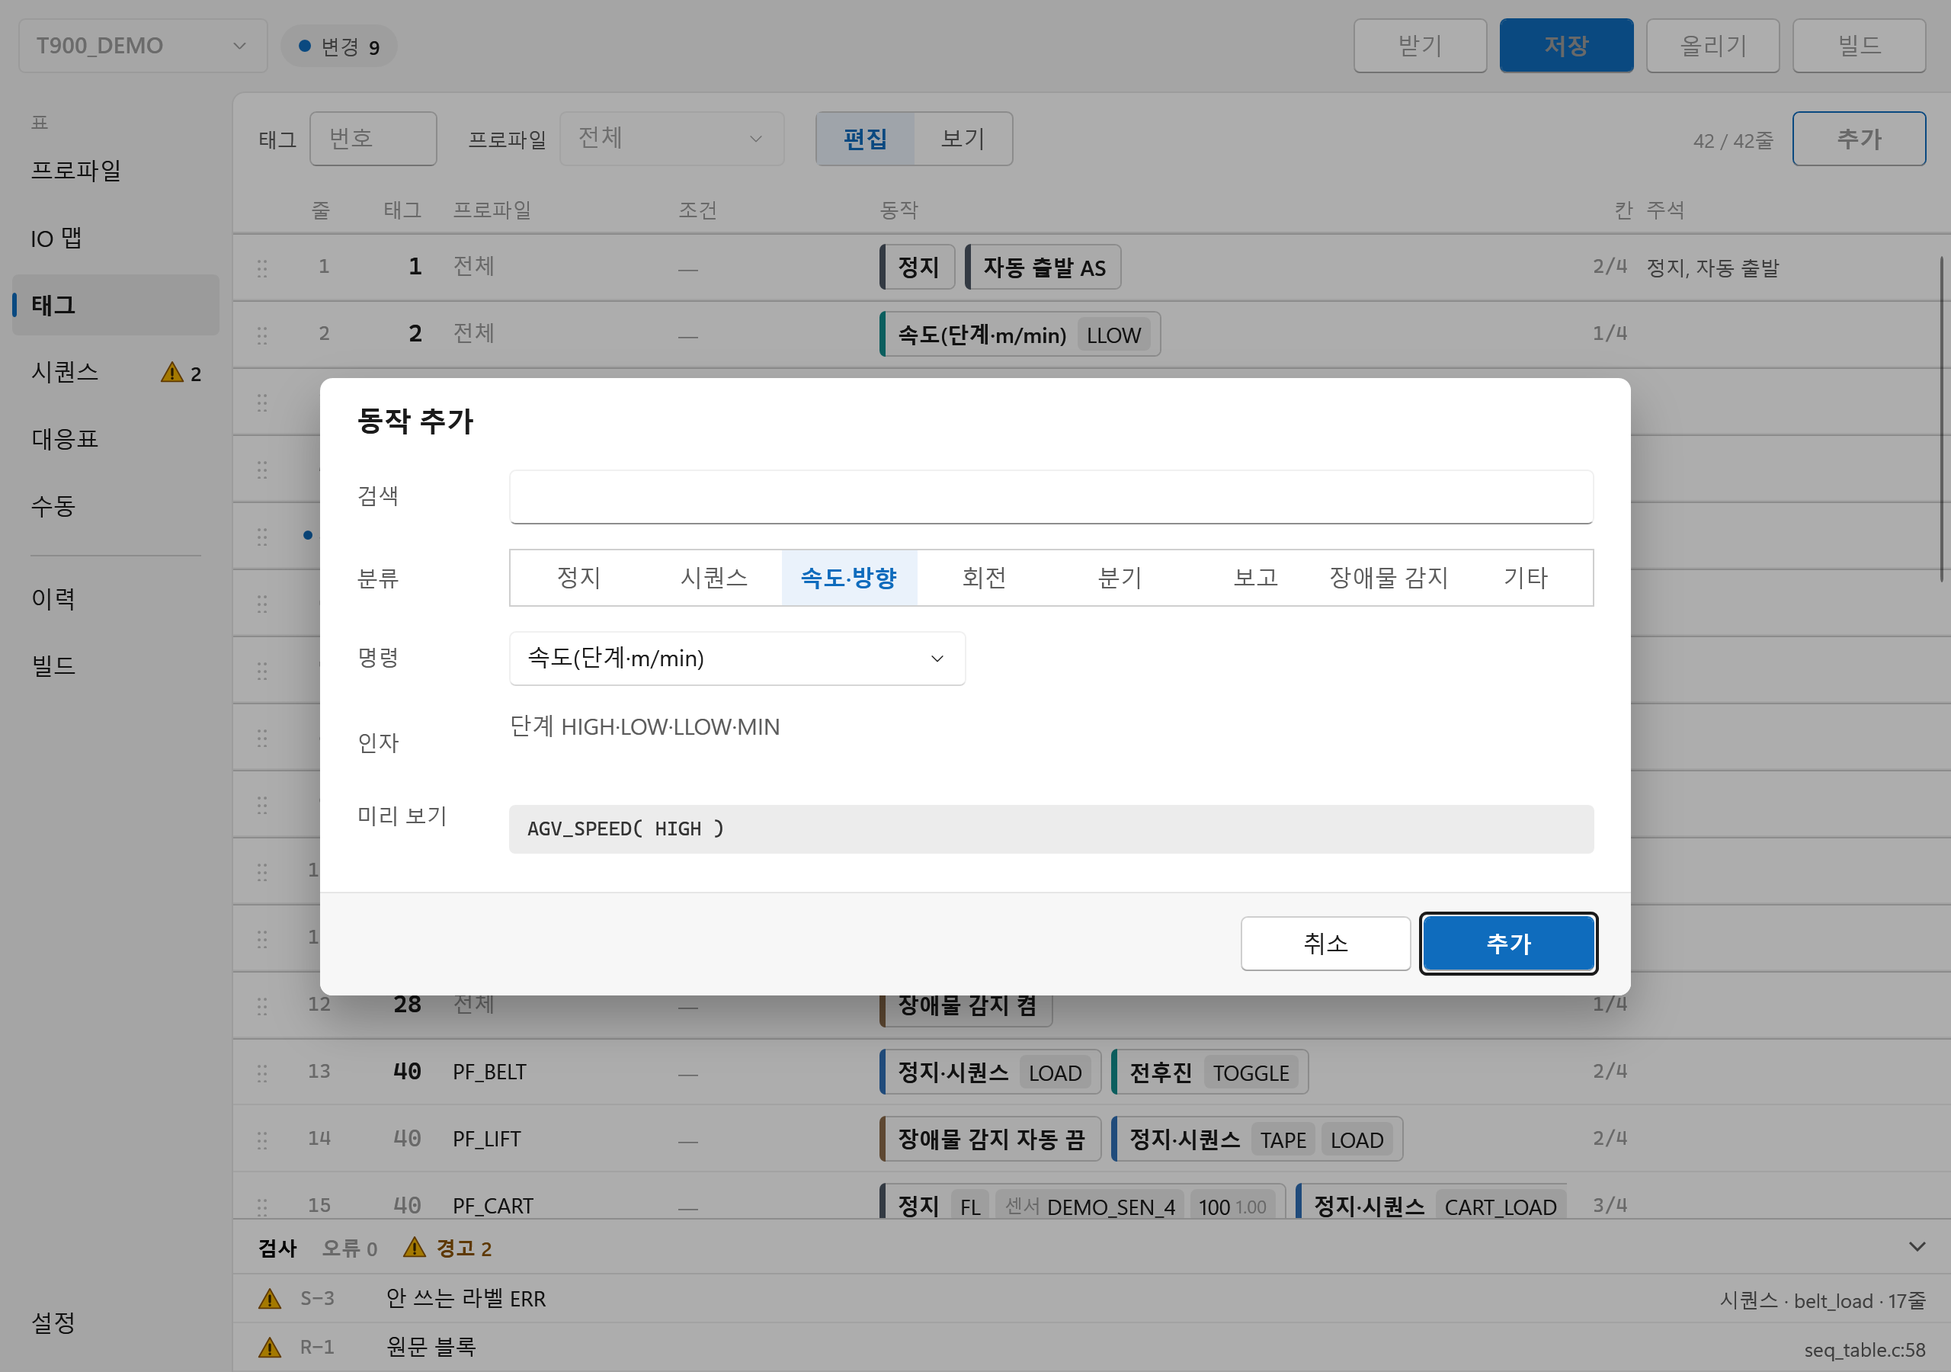
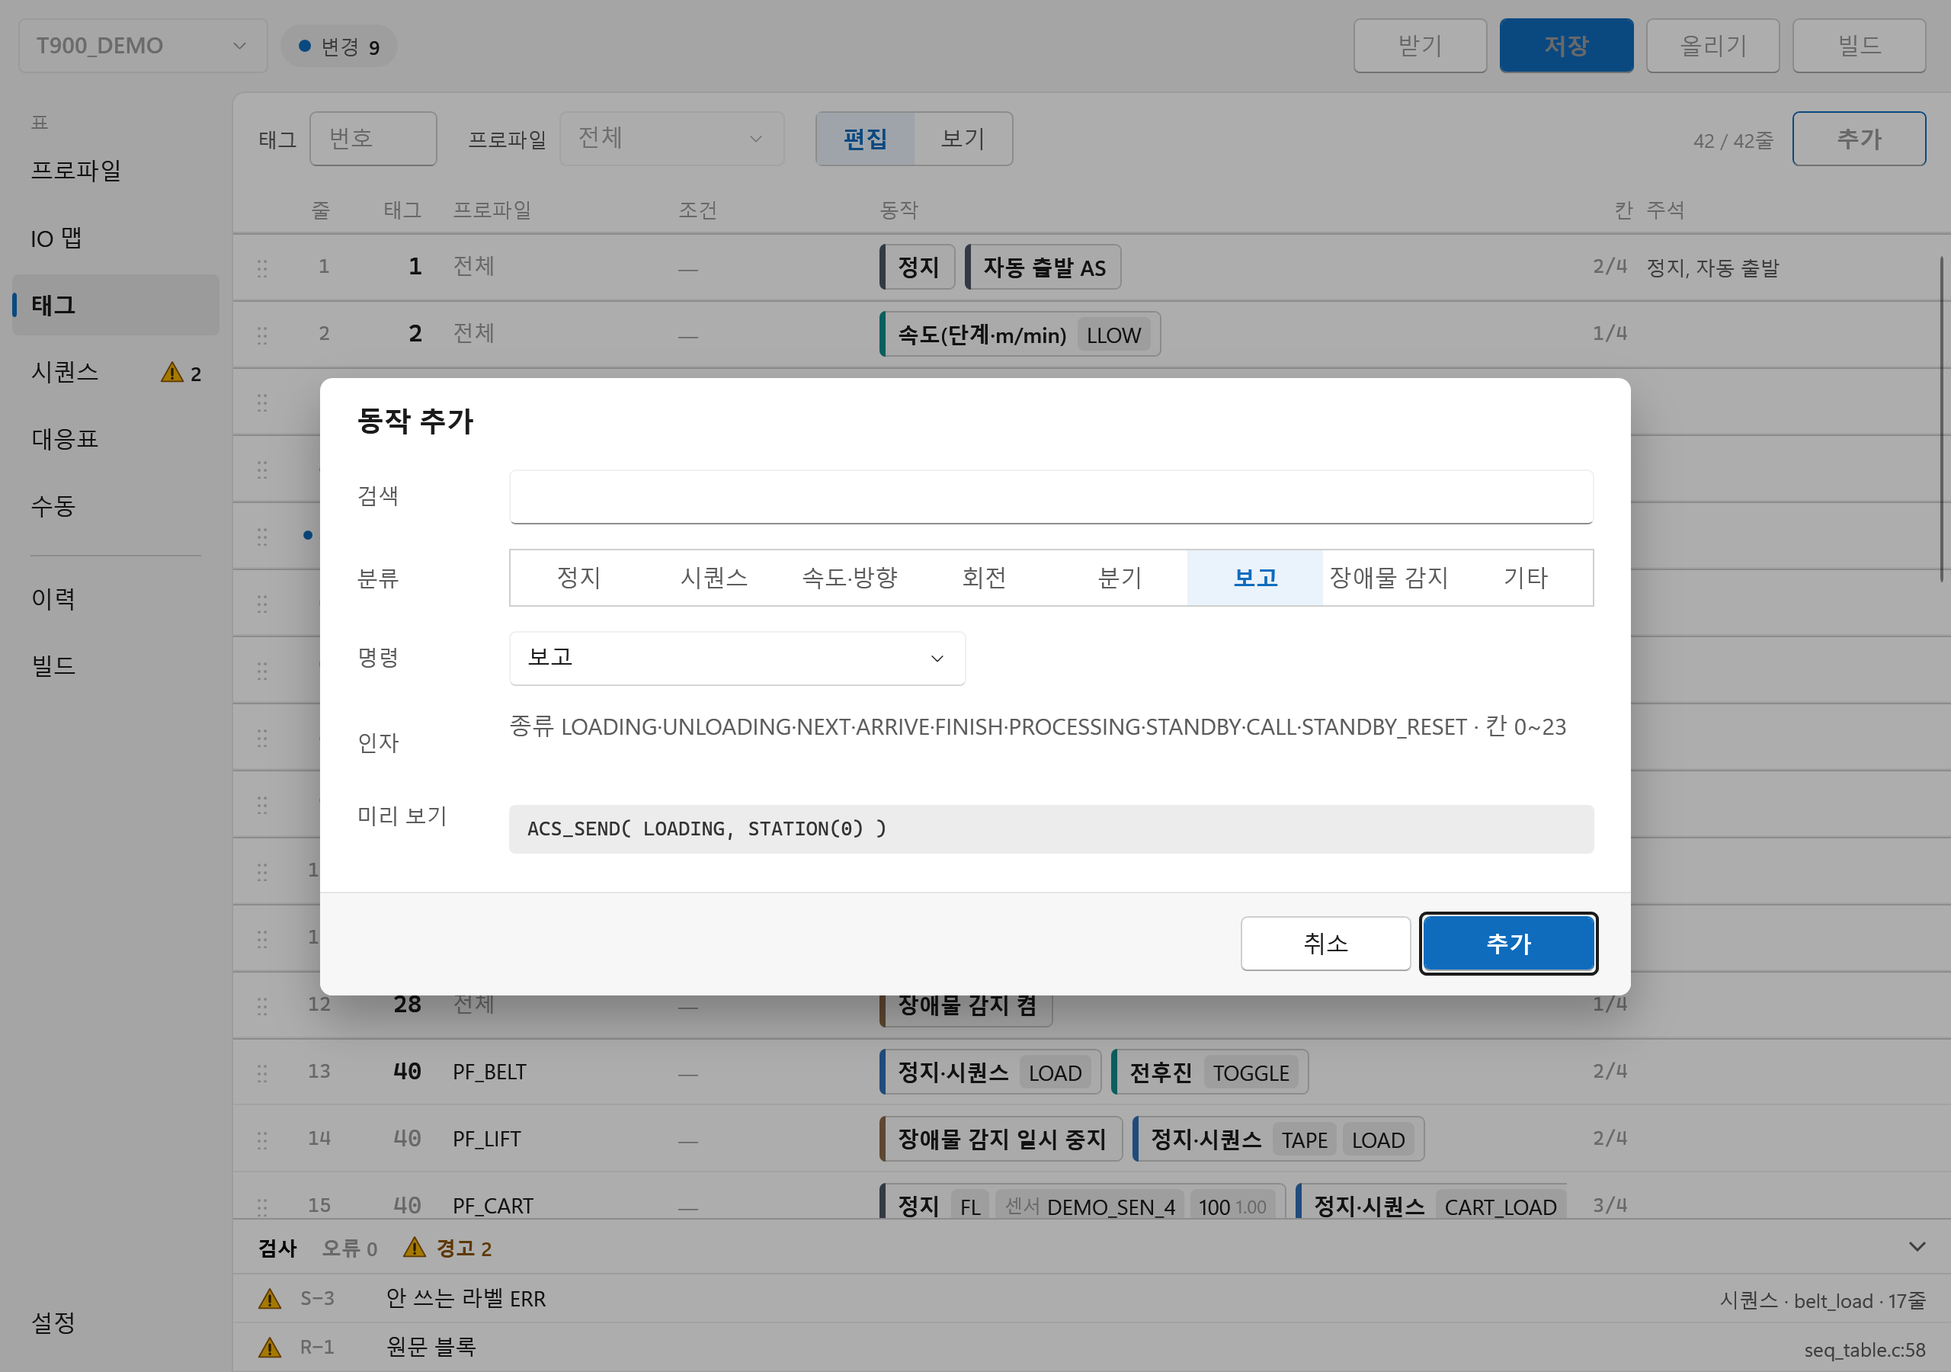
보고 칸: 스테이션·숫자 형식, 스테이션 칸 고르기
- 형식 낱말 출처·번호 → 스테이션·숫자
- 스테이션 형식에 칸(0~23) 드롭다운. STATION0 = 칸 0, STATION(k) = 칸 k.
  STATION0_PLUS1·STATION(0) + 1 같은 식은 그대로(칸 칸 없이 글 칸).
- 쓰기: 태그 칸 0 + 1칸 종류는 ACS( 종류, STATION0 )(1칸), 그 밖은 2칸 형식
  (새 코어 ACS( 종류, STATION(k) ), 옛 코어 ACS_SEND( 종류, STATION(k) ): 옛 태그 ACS 는 STATION(k) 를 못 받음).
  시퀀스는 두 코어 모두 ACS( 종류, STATION(k) ).
- selftest: 새·옛 코어 보고 칸 0 → 2 → 0 으로 되돌리면 원문 바이트 동일, 시퀀스 칸 읽기

diff --git a/src/TableEditor.Engine/Grammar/GrammarTable.cs b/src/TableEditor.Engine/Grammar/GrammarTable.cs
@@ -48,6 +48,7 @@ public enum ArgKind
     StationExpr,  // STATION(k) 식
     AcsSource,    // 시퀀스 ACS 번호 출처
     AcsNumber,    // ACS_SEND 번호
+    AcsStation,   // ACS_SEND·태그 ACS 의 STATION( 칸 )
     StopDist,     // FL 또는 cm
     FromSensor,   // FROM_SENSOR( … )
     AndCond,      // IN( … ), 묶음 하나, NO_IN, AND( … )(v0.58.0)
@@ -207,8 +208,8 @@ public static class GrammarTable
         "DELAY" => "틱",
         "AGV_SPEED" => "단계",
         "AGV_SPEED_MMIN" => "m/min",
-        "ACS" => "출처",
-        "ACS_SEND" => "번호",
+        "ACS" => "스테이션",
+        "ACS_SEND" => "숫자",
         "WAIT" or "WAIT_STABLE" or "OUT_FLICKER_UNTIL_IN" or "SELECT_END" => "없음",
         "WAIT_TO" or "WAIT_STABLE_TO" or "OUT_FLICKER_UNTIL_IN_TO" or "SELECT_END_TO" => "시간",
         _ => "",
@@ -221,7 +222,7 @@ public static class GrammarTable
         {
             _ when a.Switch => "ON·OFF",
             ArgKind.Word => string.Join("·", a.Words ?? []),
-            ArgKind.Number or ArgKind.Time or ArgKind.Timeout or ArgKind.StopDist or ArgKind.AcsNumber => string.Join(" ", new[] { a.Unit, range }.Where(s => s.Length > 0)),
+            ArgKind.Number or ArgKind.Time or ArgKind.Timeout or ArgKind.StopDist or ArgKind.AcsNumber or ArgKind.AcsStation => string.Join(" ", new[] { a.Unit, range }.Where(s => s.Length > 0)),
             ArgKind.Profile => "프로파일",
             ArgKind.Input or ArgKind.CoreInput or ArgKind.FromSensor => "입력",
             ArgKind.Signal => "신호",
@@ -389,7 +390,7 @@ public static class GrammarTable
         E("X_STATION_DIV", XC, Pt, "X_STATION_DIV( 칸, n, m )", "스테이션 몫", "차량 상태", Slot, N(1, 65535), U16),
         E("X_TAG_NUM", XC, Pt, "X_TAG_NUM( 식 )", "태그 번호 = 식", "차량 상태", A(ArgKind.StationExpr)),
         E("X_PARAM", XC, Pt, "X_PARAM( FND 이름, 값 )", "파라미터 =", "차량 상태", A(ArgKind.FndParam), N(-32768, 65535)),
-        E("X_NOT", XC, Pt, "X_NOT( 차량 상태 )", "NOT", "차량 상태", X),
+        E("X_NOT", XC, Pt, "X_NOT( 차량 상태 )", "반전", "차량 상태", X),
 
         // ---- v0.58.0 상태 낱말(AND 안, 옛 X_ 이름 대응. 헤더 dsl_and.h) ----
         E("ALWAYS", SC, Pt, "ALWAYS", "조건 없음", "차량 상태").Added(),
@@ -464,6 +465,7 @@ public static class GrammarTable
         E("STATION", S, Pt, "STATION( k )", "스테이션[k]", "보고", Slot),
         E("MOD", S, Pt, "MOD( STATION(k), m )", "나머지", "보고", A(ArgKind.StationExpr), N(1, 255)),
         E("ACS", S, St, "ACS( 종류, 번호 )", "보고", "보고", W(Reports), new ArgSpec(ArgKind.AcsSource, 0, 65535)).Word("STANDBY 정지 없음"),
+        E("ACS_SEND", S, St, "ACS_SEND( 종류, 칸 )", "보고", "보고", W(Reports), new ArgSpec(ArgKind.AcsStation, 0, 23)).Alias().Form("스테이션"),
         E("ACS_SEND", S, St, "ACS_SEND( 종류, 번호 )", "보고", "보고", W(Reports), new ArgSpec(ArgKind.AcsNumber, 0, 65535)).Alias(),
         E("ACS_WAIT_ACK", S, St, "ACS_WAIT_ACK( 제한, 라벨 )", "응답 대기", "보고", TO, Lb),
         E("ACS_STATION", S, St, "ACS_STATION( 칸, 값, 길이 )", "스테이션 넣기", "보고", Slot, U16, U16),
@@ -549,9 +551,11 @@ public static class GrammarTable
         E("AGV_FORBACK", TA, Pt, "AGV_FORBACK( 방향 )", "전후진", "동작", W(ForBack)).Cells(1),
         E("AGV_TURN", TA, Pt, "AGV_TURN( 방향, 각도, 회전 뒤, 자동 출발[, 속도[, 옵션[, 옵션]]] )", "회전", "동작",
             W(Rot), N(5, 315, "도"), N(0, 15), N(0, 15).Sw(), N(0, 31, "m/min").Opt(), W(TurnOptTag).Opt(), W(TurnOptTag).Opt()).Cells(2),
+        E("ACS_SEND", TA, Pt, "ACS_SEND( 종류, 칸 )", "보고", "동작", W(ReportsTag), new ArgSpec(ArgKind.AcsStation, 0, 23)).Cells(2).Alias().Form("스테이션"),
         E("ACS_SEND", TA, Pt, "ACS_SEND( 종류, 번호 )", "보고", "동작", W(ReportsTag), new ArgSpec(ArgKind.AcsNumber, 0, 255)).Cells(2).Alias(),
         E("ACS", TA, Pt, "ACS( 종류, STATION0 )", "보고", "동작", W(Reports), W("STATION0")).Cells(1).Word("STANDBY 정지 중엔 정지 없음"),
-        E("ACS", TA, Pt, "ACS( 종류, 번호 )", "보고", "동작", W(ReportsTag), new ArgSpec(ArgKind.AcsNumber, 0, 255)).Cells(2).Added().Form("번호").Word("STANDBY 정지 중엔 정지 없음"),
+        E("ACS", TA, Pt, "ACS( 종류, 칸 )", "보고", "동작", W(ReportsTag), new ArgSpec(ArgKind.AcsStation, 0, 23)).Cells(2).Added().Word("STANDBY 정지 중엔 정지 없음"),
+        E("ACS", TA, Pt, "ACS( 종류, 번호 )", "보고", "동작", W(ReportsTag), new ArgSpec(ArgKind.AcsNumber, 0, 255)).Cells(2).Added().Form("숫자").Word("STANDBY 정지 중엔 정지 없음"),
         E("STATION_RESET", TA, Pt, "STATION_RESET", "스테이션 초기화", "동작").Cells(1),
         E("OBS_ON", TA, Pt, "OBS_ON", "장애물 감지 켬", "동작").Cells(1),
         E("OBS_OFF", TA, Pt, "OBS_OFF", "장애물 감지 끔", "동작").Cells(1),

diff --git a/src/TableEditor.App/SelfTest.V058.cs b/src/TableEditor.App/SelfTest.V058.cs
@@ -94,7 +94,9 @@ public sealed partial class SelfTest
         await Idle();
         Tag.AddAction(Row(28), acs);
         await Idle();
-        Check(Row(28).Rule!.Actions.Select(a => a.Text).SequenceEqual(["OBS_ON", "AGV_SPEED( 4 )", "ACS( LOADING, 0 )"]), $"새 동작 글 ({string.Join(" · ", Row(28).Rule!.Actions.Select(a => a.Text))})");
+        Check(Row(28).Rule!.Actions.Select(a => a.Text).SequenceEqual(["OBS_ON", "AGV_SPEED( 4 )", "ACS( LOADING, STATION(0) )"]), $"새 동작 글 ({string.Join(" · ", Row(28).Rule!.Actions.Select(a => a.Text))})");
+        Step("보고 칸: 1칸 STATION0 ↔ 2칸 STATION(k) (새 코어)");
+        await StationRoundTrip(28, "ACS( LOADING, STATION0 )", "ACS( LOADING, STATION(2) )");
         var stepNew = SeqEdit.StepRows(false, true).Select(e => e.Name).Distinct().ToList();
         var stepOld = SeqEdit.StepRows(false, false).Select(e => e.Name).Distinct().ToList();
         Check(new[] { "OUT_SET", "WAIT_TO", "ACS", "AGV_SPEED" }.All(stepNew.Contains) && !new[] { "WAIT_TO_PARAM", "WAIT_PARAM_TO", "AGV_SPEED_MMIN", "ACS_SEND", "WHEN_IF", "WHEN_ANY2", "WAIT_IF", "WAIT_ANY2" }.Any(stepNew.Contains),
@@ -185,9 +187,47 @@ public sealed partial class SelfTest
         Check(Row(62, "PF_CART").Rule!.CondText == "IF_X2_IN(X_ID(20,25),X_FORWARD,ON(DEMO_SEN_2))", $"옛 형식 ({Row(62, "PF_CART").Rule!.CondText})");
         var oldSpeedForms = ActionForms.Of(GrammarTable.Find("AGV_SPEED", Place.TagAction).First(e => e.Since.Length == 0), false).Select(e => e.Name + ":" + e.FormName).ToList();
         Check(oldSpeedForms.SequenceEqual(["AGV_SPEED:단계", "AGV_SPEED_MMIN:m/min"]), $"옛 코어 형식 칸 {string.Join("/", oldSpeedForms)}");
+        Step("보고 칸: 옛 코어는 2칸에서 ACS_SEND, 칸 0 은 1칸 ACS(STATION0), 시퀀스는 ACS( 종류, STATION(k) )");
+        await StationRoundTrip(58, "ACS( LOADING, STATION0 )", "ACS_SEND( LOADING, STATION(2) )");
+        var builder = new BlockBuilder(vm.Site!.Names, []);
+        var seqSt = vm.Site.Files.SelectMany(f => f.Pieces).OfType<Statement>().Where(s => s.Name is "ACS" or "ACS_SEND" && s.Args.Count == 2).ToList();
+        var s0 = seqSt.First(s => s.Text.Contains("UNLOADING, STATION0"));
+        var f0 = builder.Statement(s0, Place.Step).Fields.First(f => f.Label == "칸");
+        Check(f0.Value == "0" && f0.Write!("3") == "STATION(3)" && f0.Write("0") == "STATION0", "시퀀스 칸 0 = STATION0, 칸 3 = STATION(3)");
+        var s1 = seqSt.First(s => s.Text.Contains("ARRIVE, STATION(1)"));
+        Check(builder.Statement(s1, Place.Step).Fields.First(f => f.Label == "칸").Value == "1", "시퀀스 STATION(1) = 칸 1");
+        var sSend = seqSt.First(s => s.Name == "ACS_SEND" && s.Text.Contains("STATION(0)"));
+        var forms = builder.Statement(sSend, Place.Step).Fields;
+        Check(forms.Any(f => f.Label == "칸" && f.Value == "0") && forms[0].Value == "스테이션" && forms[0].Spec.Words!.SequenceEqual(["스테이션", "숫자"]), $"ACS_SEND(STATION) 도 스테이션 형식 ({forms[0].Value}: {string.Join("/", forms[0].Spec.Words!)})");
         while (vm.Undo.CanExecute(null)) vm.Undo.Execute(null);
         await Idle();
         Clear(dir);
         Clear(core);
     }
+
+    /// <summary>보고 동작의 칸 고르기: 칸 → 2 → 0 으로 돌리면 줄이 처음 바이트 그대로. 쓴 글은 검사에 안 걸린다.</summary>
+    async Task StationRoundTrip(long tag, string start, string toTwo)
+    {
+        int idx = Row(tag).Rule!.Actions.Count - 1;
+        void Pick(string k)
+        {
+            var rule = Row(tag).Rule!;
+            var f = new BlockBuilder(vm.Site!.Names, []).Action(rule.St, rule.Actions[idx], idx).Fields.First(x => x.Label == "칸");
+            vm.Apply(SiteEdit.SetArg(vm.Site!, rule.St, f.Arg, f.Write!(k)));
+        }
+        var cur = Row(tag).Rule!.Actions[idx].Text;
+        if (cur != start) vm.Apply(SiteEdit.SetArg(vm.Site!, Row(tag).Rule!.St, Row(tag).Rule!.Actions[idx], start));
+        await Idle();
+        var baseText = TagText;
+        int errs = vm.ErrorCount;
+        Pick("2");
+        await Idle();
+        Check(Row(tag).Rule!.Actions[idx].Text == toTwo && vm.ErrorCount == errs, $"칸 2 로 ({Row(tag).Rule!.Actions[idx].Text}) · 오류 {vm.ErrorCount}");
+        var blk = new BlockBuilder(vm.Site!.Names, []).Action(Row(tag).Rule!.St, Row(tag).Rule!.Actions[idx], idx);
+        Check(blk.Cells == 2 && blk.Fields.First(x => x.Label == "칸").Value == "2", $"2칸 · 칸 2 읽음 ({blk.Cells})");
+        Pick("0");
+        await Idle();
+        Check(Row(tag).Rule!.Actions[idx].Text == start && TagText == baseText, "칸 0 으로 되돌리면 원문 바이트 동일");
+    }
+
 }

diff --git a/src/TableEditor.App/Blocks/BlockBuilder.cs b/src/TableEditor.App/Blocks/BlockBuilder.cs
@@ -45,7 +45,7 @@ public sealed partial class BlockBuilder(NameDict names, IReadOnlyList<Finding> 
     /// </summary>
     List<FieldInfo> ActionFields(GrammarEntry entry, Arg a, IReadOnlyList<Arg> args)
     {
-        var fields = FieldsOf(entry, args);
+        var fields = FieldsOf(entry, args).Select(f => f.Label == StationLabel && args.Count == 2 && ReferenceEquals(f.Arg, args[1]) ? TagStation(f, a, args) : f).ToList();
         var forms = ActionForms.Of(entry, names.NewDsl);
         if (forms.Count < 2) return fields;
         var form = FormField(entry, forms, a, args);
@@ -248,12 +248,48 @@ public sealed partial class BlockBuilder(NameDict names, IReadOnlyList<Finding> 
             var (name, inner) = Split(args[i].Node);
             var spec = outs && specs[i].Kind == ArgKind.Signal ? specs[i] with { Kind = ArgKind.Output, Label = "출력" } : specs[i];
             if (spec.Kind == ArgKind.OutCond) list.Add(OutKind(args[i], spec));
-            if (args[i].Node is CallNode && name != null && InnerFor(spec.Kind, name, inner) is { } ie && ie.Args.Count > 0)
+            if (StationK(args[i].Node) is long sk && IsStationSpec(spec)) list.Add(StationField(args[i], sk));
+            else if (args[i].Node is CallNode && name != null && InnerFor(spec.Kind, name, inner) is { } ie && ie.Args.Count > 0)
                 list.AddRange(FieldsOf(ie, inner, outs || spec.Kind == ArgKind.OutCond));
             else if (spec.Kind != ArgKind.OutCond) list.Add(SwitchField(spec, args[i]) ?? new(spec.Label, args[i], spec));
             else if (name != "NO_IN") list.Add(new(spec.Label, args[i], spec));
         }
         return list;
+    }
+
+    const string StationLabel = "칸";
+    static readonly IReadOnlyList<string> Slots = Enumerable.Range(0, 24).Select(i => i.ToString()).ToList();
+
+    /// <summary>스테이션 칸 읽기: <c>STATION0</c> = 0, <c>STATION(k)</c> = k. 그 밖의 식(<c>STATION0_PLUS1</c>, <c>STATION(0) + 1</c>)은 null.</summary>
+    static long? StationK(Node n) => n switch
+    {
+        NameNode { Name: "STATION0" } => 0,
+        CallNode { Name: "STATION", Args: [{ Node: NumberNode { Value: >= 0 and < 24 } num }] } => num.Value,
+        _ => null,
+    };
+
+    static bool IsStationSpec(ArgSpec s) => s.Kind is ArgKind.AcsSource or ArgKind.AcsStation || s is { Kind: ArgKind.Word, Words: ["STATION0"] };
+
+    /// <summary>스테이션 칸 고르기(0~23). 시퀀스는 그 인자만 다시 쓴다(옛 코어는 칸 0 이 <c>STATION0</c>).</summary>
+    FieldInfo StationField(Arg a, long k) => new(StationLabel, a, new ArgSpec(ArgKind.Word, Words: Slots) { Label = StationLabel })
+    {
+        Value = k.ToString(),
+        Write = w => names.NewDsl || w != "0" ? $"STATION({w})" : "STATION0",
+    };
+
+    /// <summary>
+    /// 태그 보고의 칸 고르기: 동작 전체를 다시 쓴다. 칸 0 + 1칸 종류는 <c>ACS( 종류, STATION0 )</c>(1칸), 그 밖은 2칸 형식
+    /// (새 코어 <c>ACS( 종류, STATION(k) )</c>, 옛 코어 <c>ACS_SEND( 종류, STATION(k) )</c>: 옛 태그 ACS 는 STATION(k) 를 못 받는다).
+    /// </summary>
+    FieldInfo TagStation(FieldInfo f, Arg action, IReadOnlyList<Arg> args)
+    {
+        var kind = args[0].Text.Trim();
+        var oneCell = ActionRows("ACS").First(r => r.Args[1].Kind == ArgKind.Word).Args[0].Words!;
+        return f with
+        {
+            Arg = action,
+            Write = w => w == "0" && oneCell.Contains(kind) ? $"ACS( {kind}, STATION0 )" : $"{(names.NewDsl ? "ACS" : "ACS_SEND")}( {kind}, STATION({w}) )",
+        };
     }
 
     public const string OutNone = "없음", OutOn = "켜짐", OutOff = "꺼짐";
@@ -301,7 +337,7 @@ public sealed partial class BlockBuilder(NameDict names, IReadOnlyList<Finding> 
             ArgKind.AndItem => [Place.InputCond, Place.StateCond],
             ArgKind.StateCond => [Place.StateCond],
             ArgKind.FromSensor => [Place.TagAction],
-            ArgKind.Until or ArgKind.StationExpr or ArgKind.AcsSource or ArgKind.AcsNumber or ArgKind.OutMask => [Place.Step],
+            ArgKind.Until or ArgKind.StationExpr or ArgKind.AcsSource or ArgKind.AcsNumber or ArgKind.AcsStation or ArgKind.OutMask => [Place.Step],
             ArgKind.Timeout => [Place.InputCond],
             ArgKind.LoadSensors => [Place.Frame],
             _ => null,

diff --git a/src/TableEditor.Engine/Check/Facts.cs b/src/TableEditor.Engine/Check/Facts.cs
@@ -119,6 +119,7 @@ public sealed class Facts
                 bool pt = args[i].Node is CallNode { Name: "PARAM_TIME" };
                 if (specs[i].Kind == ArgKind.ParamTime ? !pt : specs[i].Kind is ArgKind.Timeout or ArgKind.Time && pt) words = false;
             }
+            if (args.Count == 2 && specs[1].Kind == ArgKind.AcsStation && args[1].Node is not CallNode { Name: "STATION" }) words = false; // 칸 형식은 STATION( k ) 만
             if (r.Name == "AGV_STOP" && args.Count == 1 && specs[0].Kind == ArgKind.Number && args[0].Node is NameNode { Name: "TAPE" or "TAPE_GD" }) words = false;
             if (r.Name == "SEQ_START" && args.Count == 2 && specs[0].Kind == ArgKind.Number && args[0].Node is NameNode { Name: "TAPE" or "TAPE_GD" }) words = false;
             if (words) return r;
@@ -176,7 +177,7 @@ public sealed class Facts
         ArgKind.ManCond => (HashSet<string>)["IN", "KEY", "NO_IN", "AND"],
         ArgKind.ManOut => (HashSet<string>)["ON", "OFF", "BELT", "NO_OUT"],
         ArgKind.StationExpr => (HashSet<string>)["STATION", "MOD"],
-        ArgKind.AcsSource => (HashSet<string>)["STATION"],
+        ArgKind.AcsSource or ArgKind.AcsStation => (HashSet<string>)["STATION"],
         ArgKind.AcsNumber => area == Area.Tag ? (HashSet<string>)["STATION", "AGV_ID_MINUS", "TAG_NUM"] : (HashSet<string>)["STATION"],
         ArgKind.FromSensor => (HashSet<string>)["FROM_SENSOR"],
         ArgKind.Timeout => (HashSet<string>)["UNMATCHED"],
@@ -202,7 +203,7 @@ public sealed class Facts
         ArgKind.AndItem => p is Place.InputCond or Place.StateCond,
         ArgKind.StateCond => p == Place.StateCond,
         ArgKind.StationExpr or ArgKind.AcsSource => p == Place.Step,
-        ArgKind.AcsNumber => p is Place.Step or Place.TagAction,
+        ArgKind.AcsNumber or ArgKind.AcsStation => p is Place.Step or Place.TagAction,
         _ => true,
     };
 
@@ -228,7 +229,7 @@ public sealed class Facts
         string? name = node is CallNode c0 ? c0.Name : node is NameNode n0 ? n0.Name : null;
         var args = node is CallNode c ? c.Args : [];
         if (name == null) return;
-        bool callish = IsCallKind(spec.Kind) || spec.Kind is ArgKind.StationExpr or ArgKind.AcsSource or ArgKind.AcsNumber or ArgKind.Timeout;
+        bool callish = IsCallKind(spec.Kind) || spec.Kind is ArgKind.StationExpr or ArgKind.AcsSource or ArgKind.AcsNumber or ArgKind.AcsStation or ArgKind.Timeout;
         if (!callish) return;
         var entry = Inner(name, args, spec.Kind, area);
         if (entry == null) return;

diff --git a/src/TableEditor.App/Blocks/Choices.cs b/src/TableEditor.App/Blocks/Choices.cs
@@ -91,6 +91,8 @@ public static class Choices
                 return "UNTIL( NO_IN )";
             case ArgKind.Any2:
                 return $"ANY2_ON({FirstInput(names)})";
+            case ArgKind.AcsStation:
+                return "STATION(0)";
             case ArgKind.AcsSource:
                 return names.NewDsl ? "STATION(0)" : "STATION0";
             case ArgKind.StationExpr:
